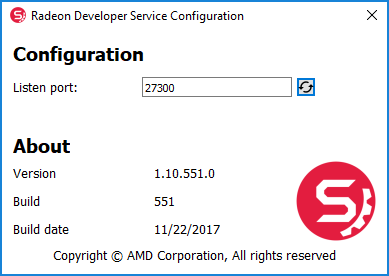
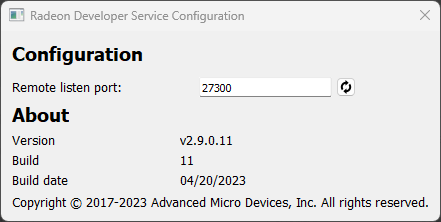
Update documentation for 2.9 release (#27)
* Update documentation for 2.9 release

* Update docs version

diff --git a/docs/source/conf.py b/docs/source/conf.py
@@ -46,7 +46,7 @@ master_doc = 'index'
 
 # General information about the project.
 project = u'Radeon Developer Panel'
-copyright = u'2017-2022, Advanced Micro Devices, Inc. All rights reserved.'
+copyright = u'2017-2023, Advanced Micro Devices, Inc. All rights reserved.'
 author = u'AMD Developer Tools'
 
 # The version info for the project you're documenting, acts as replacement for
@@ -54,9 +54,9 @@ author = u'AMD Developer Tools'
 # built documents.
 #
 # The short X.Y version.
-version = u'2.8.1'
+version = u'2.9.0'
 # The full version, including alpha/beta/rc tags.
-release = u'2.8.1'
+release = u'2.9.0'
 
 # The language for content autogenerated by Sphinx. Refer to documentation
 # for a list of supported languages.
